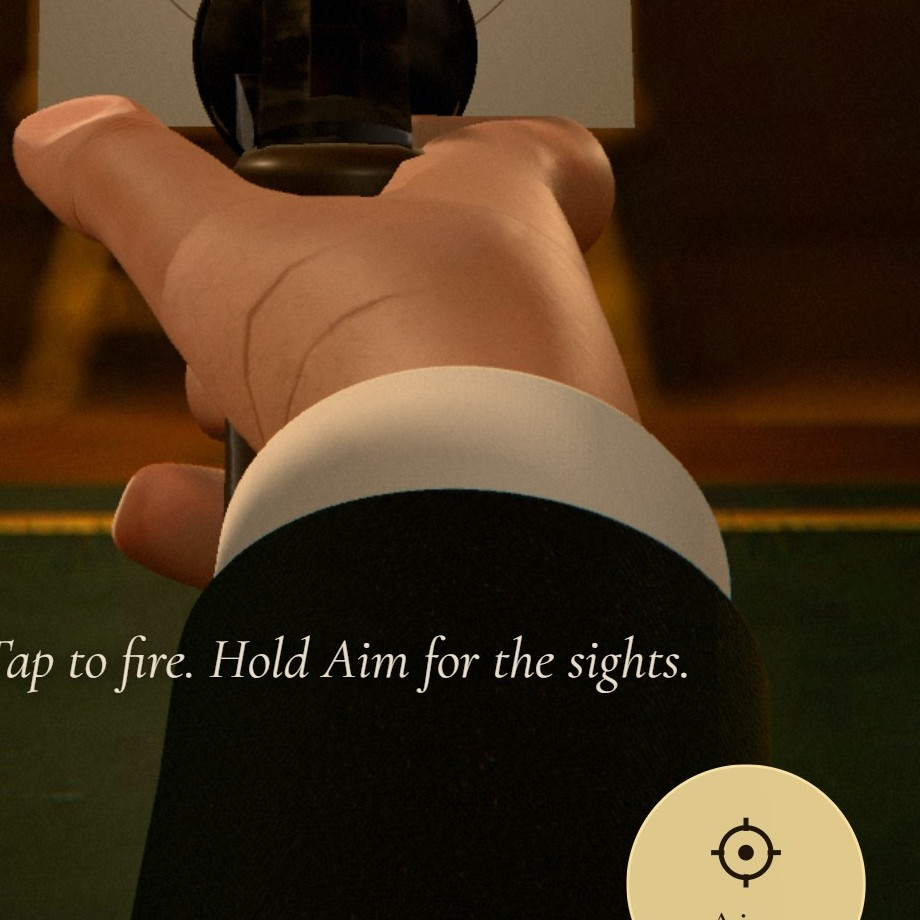
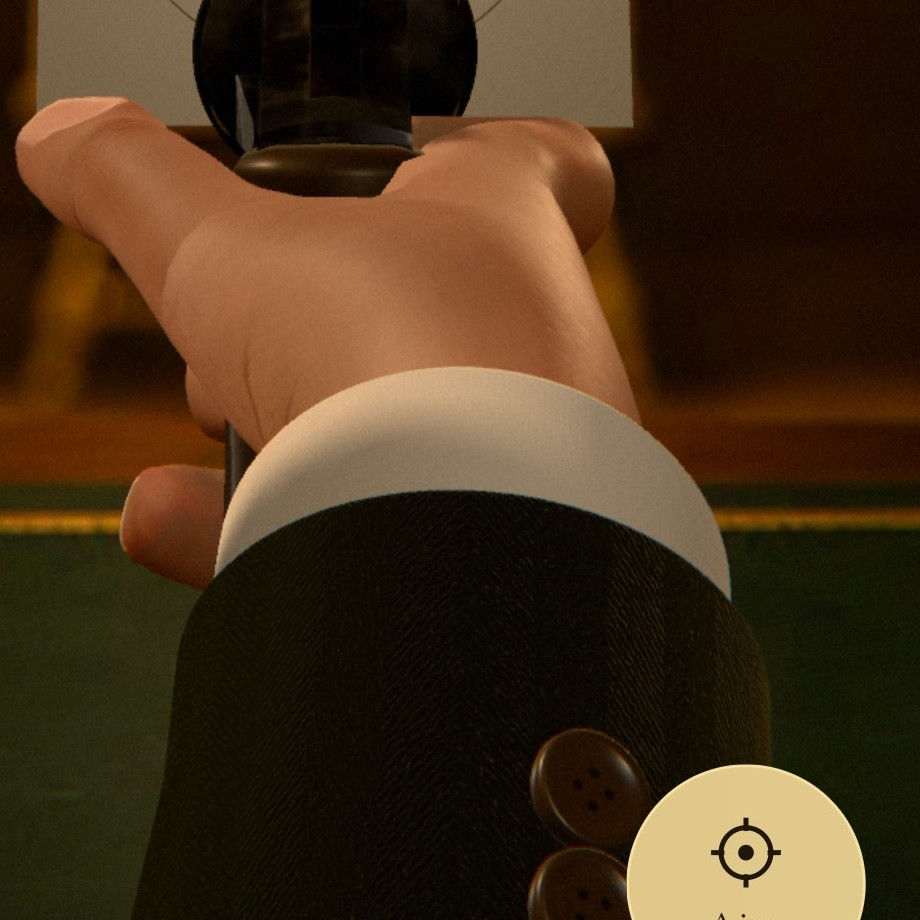
Docs: HANDS-REAL.md polish round (veins, nails, fingertips, sleeve cloth, Range support arm, sizes, frame cost, capture settings) and retaken v4-hands stills

diff --git a/docs/HANDS-REAL.md b/docs/HANDS-REAL.md
@@ -18,6 +18,18 @@ sleeve as a tailored oval tube.
   fine palm lines), extensor tendons fanning to the knuckles, a dorsal vein network with an arch and the cephalic and
   basilic veins, redder knuckles, fingertips and finger sides, paler palms, mottling, fine speckle and a few spots,
   ray-cast occlusion in the bind pose plus crease cavity.
+- Veins and tendons are broad, low Gaussian relief (veins 0.09 mm high, ~2.7 mm wide; tendons 0.18 mm over ~5 mm,
+  only toward the knuckles) with the faintest cool tint: soft shading, never an outline. The thin dark "pen lines" on
+  the back of the hand in the first v4 stills were not veins: they were the head and life lines carried round the
+  thumb base, which the grip turns toward the eye. Palm lines now stop where the bind-pose surface stops facing
+  clearly palmward (normal against the hand's back axis below -0.55).
+- Nails: one pink-beige plate with a soft gradient, a small faint lunula (largest on the thumb), a barely darker
+  onychodermal band, an off-white free edge about 1 mm wide with a slightly wavy line and rounded corners, and the
+  plate ends 2.3 mm before the fingertip instead of running over the cap.
+- Fingertips: the last 6.5 mm of every distal segment is reshaped in the bind mesh into half an ellipsoid fitted to the
+  finger's own cross-section (per direction), the tip pushed out 1.2 mm, and the last 11 mm tapered slightly (pad and
+  sides more than the nail side). Only bind positions move; weights, joints, inverse bind matrices and the rest pose
+  are untouched, so every pose works as before.
 - The relief ships as surface slopes along u and v (two grey maps). A lossy height map differentiated in the shader
   showed every compression block; slopes taken in float at bake time only pick up tiny direction noise.
 - Shading (`skinMaterial`): `MeshPhysicalMaterial` with the albedo, an ORM map (occlusion, roughness: nails glossy,
@@ -37,13 +49,20 @@ sleeve as a tailored oval tube.
 - The jacket has soft ease folds above the hem and toward the elbow, and three horn buttons on the outer back of each
   Decide sleeve (none on the Range jacket: `buttons: false` in `js/range.js`).
 - Herringbone tweed at real scale (32 mm tile, 8 mm stripes, 1.1 mm twill, sparse flecks) with a matching normal
-  map; oxford shirting relief on the cuff with a topstitch line. Room sleeve and cuff colours are unchanged.
+  map; oxford shirting relief on the cuff with a topstitch line. Room sleeve and cuff colours are unchanged. The
+  twill carries real colour contrast (same mean colour), the normal map runs at 0.95, and the wool sheen is a pale warm
+  grey whatever the dye, so dark cloth reads as cloth under the lamp. Two soft ease rolls above the hem go both in and
+  out (the sleeve does not grow); the pressed hem edge is a touch lighter with a soft shadow line above it.
+- Buttons: three kissing turned-horn buttons (rounded rim, dished face, four holes) on the outer side of each Decide
+  sleeve, at the angle the pistol grip turns toward the eye; in ADS they sit just left of the Aim button.
 - The sleeve rolls with the wrist so the oval keeps to the forearm, its axis runs between the elbow line and the
   hand's own axis (70/30), and the cuff turns up to 8 degrees further toward the hand on a pivot at the hem.
 - The watch moved onto the back of the left wrist just past the cuff (the cuff on that hand stops 9 mm higher);
   the strap is fitted to the wrist.
-- At aim the right forearm drops more steeply (`js/main.js` ADS elbow offset, `js/range.js` `FORE_ADS`), and the
-  Range support forearm comes in from further out (`SUP.elbow`).
+- At aim the right forearm drops more steeply (`js/main.js` ADS elbow offset, `js/range.js` `FORE_ADS`). The Range
+  support forearm (`SUP.elbow` = -0.7, -0.7, -0.35 in camera space) comes up from the lower left corner instead of
+  lying across the screen at gun height; steeper or nearer elbows covered more of the screen, and further-forward ones
+  showed the inside of the hem at the wrist.
 
 Share of a 390 x 844 phone screen covered by sleeve plus cuff (rendered alone, white on black):
 
@@ -52,24 +71,24 @@ Share of a 390 x 844 phone screen covered by sleeve plus cuff (rendered alone, w
 | Decide hip | 2.4 % | 1.8 % |
 | Decide ADS | 16.9 % | 13.4 % |
 | Range hip | 4.4 % | 3.8 % |
-| Range ADS | 19.0 % | 14.9 % (left 5.7, right 9.2) |
+| Range ADS | 19.0 % | 14.9 % (left 5.7, right 9.2); polish round, support arm from the lower left: 15.1 % (left 6.0) |
 
 ## Maps
 
 | file | size | what |
 |---|---|---|
-| `hand_left.glb` | 81,164 B | Draco mesh, 8,654 vertices, rig unchanged |
-| `hand_right.glb` | 80,844 B | Draco mesh, 8,654 vertices, rig unchanged |
-| `hand_albedo.webp` | 259,022 B | 2048, sRGB, the medium skin |
-| `hand_nx.webp` | 232,028 B | 2048, relief slope along u |
-| `hand_ny.webp` | 231,226 B | 2048, relief slope along v |
-| `hand_orm.webp` | 205,908 B | 1024, occlusion, roughness, pigment weight |
-| `hand_glove_nx.webp` | 40,886 B | 1024, glove relief slope along u |
-| `hand_glove_ny.webp` | 41,424 B | 1024, glove relief slope along v |
-| `hand_glove_st.webp` | 55,414 B | 1024, glove stitch mask |
+| `hand_left.glb` | 81,400 B | Draco mesh, ~8,690 vertices, rig unchanged |
+| `hand_right.glb` | 81,156 B | Draco mesh, ~8,690 vertices, rig unchanged |
+| `hand_albedo.webp` | 243,262 B | 2048, sRGB, the medium skin |
+| `hand_nx.webp` | 182,970 B | 2048, relief slope along u |
+| `hand_ny.webp` | 190,662 B | 2048, relief slope along v |
+| `hand_orm.webp` | 202,784 B | 1024, occlusion, roughness, pigment weight |
+| `hand_glove_nx.webp` | 41,026 B | 1024, glove relief slope along u |
+| `hand_glove_ny.webp` | 41,626 B | 1024, glove relief slope along v |
+| `hand_glove_st.webp` | 57,054 B | 1024, glove stitch mask |
 | `hand_pores.webp` | 127,324 B | 512 tile (16 mm), skin micro relief |
 | `hand_leather.webp` | 155,492 B | 512 tile (20 mm), leather grain |
-| **total** | **1,510,732 B** | the old base64 module was 1,469,523 B |
+| **total** | **1,404,756 B** | the old base64 module was 1,469,523 B |
 
 Texel size on the hand: 0.22 mm.
 
@@ -89,6 +108,10 @@ GPU), old build (446e0f1) and new build alternated twice:
 | ADS | 3.55 ms | 3.85 ms (+8 %) |
 | open cylinder | 4.10 ms | 3.95 ms |
 
+Polish round (soft veins, nails, round tips, sleeve weave and buttons), same method, 390 x 844 at DPR 3, old build and
+new build alternated twice, mean of the two medians: hip 3.60 / 3.05 ms, ADS 3.65 / 3.70 ms (+1 %), open 3.55 / 3.25
+ms (old / new). The buttons add one draw call each for the four holes (three per Decide sleeve).
+
 ## Rebuild
 
 ```
@@ -101,15 +124,33 @@ npx @gltf-transform/cli@4 draco %TEMP%\roulette-hands-work\hand_right.raw.glb as
 The bake takes about 3 minutes (`--res 512` for a quick look). It is deterministic, so the meshes and maps always
 agree. `MAP` in `js/hands.js` must match the tile sizes and slope range in the script.
 
-Stills: `docs/shots/v4-hands/`.
+The bake takes 3 to 8 minutes depending on load; `--res 512 --work <other dir>` takes 40 s and is enough to judge
+shape changes in the app (copy the maps and Draco the meshes the same way, then rebake at 2048 before committing).
+
+Stills: `docs/shots/v4-hands/`. Captured with Playwright (Chromium and WebKit from `%LOCALAPPDATA%\ms-playwright`,
+scripts kept outside the repo) on `index.html?nosw&debug` with `dbg.noGovernor = true` and the coach hidden: phone
+390 x 844 at DPR 3 (`phone-*`, 1170 x 2532), desktop 1440 x 900 at DPR 1 (`desk-*`). ADS is `dbg.setAds(true)` plus
+1.5 s, open is `dbg.toggleCylinder()` plus 1.8 s, the skins are `setSkin()` on both hands with the cylinder open,
+fire is taken 45 ms after `P.trig` reaches 1, Range is `dbg.setMode('range', true)`, reload is 0.7 s after
+`dbg.R.reload()`. Crops from the phone stills: `crop-hip-hand` 870 px at (300, 1600) of hip, `crop-ads` 920 px at
+(250, 1450) of ADS, `crop-open-thumb` 900 px at (270, 1500) of open. Customize tiles (`assets/ui/hand-*.webp`, 300 px):
+600 x 600 at DPR 1, UI hidden, `dbg.view = { from: [0.27, 0.04, 0], at: <right wrist in vm space> + (0, 0.004,
+-0.078), fov: 24 }`, scaled down.
 
 ## Still not real
 
-- The shape is still the MakeHuman base hand: fingertips are a little blunt and round, there is no nail plate in the
-  geometry (the nail is relief and colour), and the knuckles do not change shape when a finger bends.
+- The shape is still the MakeHuman base hand: the fingertips are rounded now, but the fingers stay a little thick and
+  even along their length, there is no nail plate in the geometry (the nail is relief and colour, so the free edge
+  never overhangs), and the knuckles do not change shape when a finger bends. The thumb's IP joint still makes a
+  square corner in the open-cylinder view.
+- The nail's free edge catches the lamp as a bright line in the open view; it reads as a nail, but a little crisp.
+- Seen from the thumb side in ADS, the grip turns bind-pose palm skin toward the eye; it carries the palm's lighter
+  colour there.
 - Creases are baked in the rest pose: they do not deepen when a finger curls, and the occlusion between fingers is a
   bind-pose bake, so fingers pressed together in a grip get no extra contact shadow beyond the shadow maps.
 - No hair on the back of the hand or fingers, no fingerprint ridges you can see at phone size.
 - The skin "scattering" is wrapped lighting, not subsurface transport; thin parts never glow red against a lamp.
 - The glove is the hand shape in leather: no fullness at the fingertips, no wrinkles that follow a grip.
 - The sleeve is a rigid tube between the cuff and the elbow line; it does not bunch at the elbow or sag.
+- The Range support sleeve still takes about 6 % of a phone screen at aim: the forearm is close to the eye in a
+  two-handed hold, and every elbow that covered less of the screen either lay across it at gun height or opened the hem.
